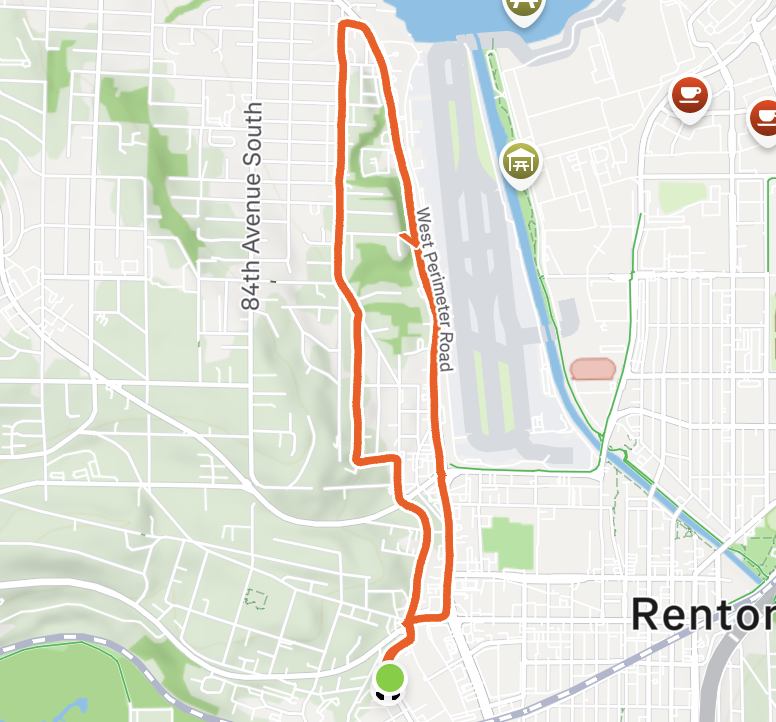
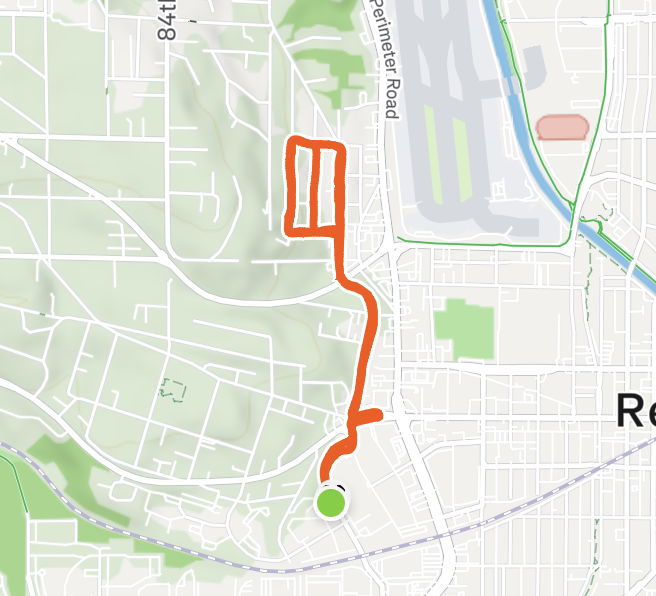
feat: update Strava activity data and labels
- Update LATEST_STRAVA_ACTIVITY with new run details and activity URL.
- Update profile status accessibility label and tooltip text.
- Refresh Strava map assets.

diff --git a/src/components/ResumeSection.tsx b/src/components/ResumeSection.tsx
@@ -18,18 +18,19 @@ import stravaMapImg from '../assets/images/strava_map.png';
 import appleChillImg from '../assets/images/applechill.jpg';
 
 const LATEST_STRAVA_ACTIVITY = {
-  title: 'Morning Run',
+  title: '30min easy w/ hills',
   type: 'Run',
-  date: 'Today at 7:14 AM',
+  date: 'Today',
   location: 'Seattle, WA',
-  distance: '3.66mi',
-  pace: '8:24/mi',
-  time: '30m 47s',
-  movingTime: '30m 47s',
-  elevation: '185 ft',
-  avgSpeed: '7.1 mph',
-  calories: '420 kcal',
-  athleteUrl: 'https://www.strava.com/athletes/almcd',
+  distance: '3.43mi',
+  pace: '8:50/mi',
+  time: '30m 19s',
+  movingTime: '30m 19s',
+  elevation: '543ft',
+  avgSpeed: '6.8 mph',
+  calories: '390 kcal',
+  activityUrl: 'https://www.strava.com/activities/20752322286',
+  athleteUrl: 'https://www.strava.com/activities/20752322286',
   athleteHandle: 'almcd',
   path: 'M 30 75 Q 65 15, 125 30 T 215 25 T 275 70 T 230 125 T 125 115 T 50 95 Z'
 };
@@ -632,7 +633,7 @@ export const ResumeSection: React.FC<ResumeSectionProps> = ({
         <div className="lg:col-span-5 flex flex-col gap-3 justify-between h-full lg:h-[460px]">
           {/* 1. STRAVA CARD (Simplified with Right Map) */}
           <a
-            href="https://www.strava.com/athletes/almcd"
+            href={LATEST_STRAVA_ACTIVITY.activityUrl}
             target="_blank"
             rel="noreferrer"
             onClick={() => sounds.playTap()}
@@ -667,10 +668,10 @@ export const ResumeSection: React.FC<ResumeSectionProps> = ({
                   </div>
                   <div>
                     <div className={`text-[10px] leading-[12px] font-medium uppercase tracking-wider mb-1 ${isLightMode ? 'text-stone-400' : 'text-white/45'}`}>
-                      Pace
+                      Elev
                     </div>
                     <div className={`text-sm font-normal leading-none ${isLightMode ? 'text-stone-500' : 'text-white/60'}`}>
-                      {LATEST_STRAVA_ACTIVITY.pace}
+                      {LATEST_STRAVA_ACTIVITY.elevation}
                     </div>
                   </div>
                   <div>

diff --git a/src/components/ProfileHeader.tsx b/src/components/ProfileHeader.tsx
@@ -301,7 +301,7 @@ export const ProfileHeader: React.FC<ProfileHeaderProps> = ({
             onBlur={() => setIsStatusHovered(false)}
             tabIndex={0}
             role="button"
-            aria-label="Open to new opportunities"
+            aria-label="Currently: Open to new opportunities"
           >
             {/* Tooltip floating above dot - styled to match tech stack icons */}
             <AnimatePresence>
@@ -321,7 +321,7 @@ export const ProfileHeader: React.FC<ProfileHeaderProps> = ({
                       className="text-xs font-semibold leading-tight tracking-tight force-white keep-white"
                       style={{ color: '#ffffff' }}
                     >
-                      Open to new opportunities
+                      Currently: Open to new opportunities
                     </div>
                   </div>
                   {/* Downward triangle caret */}
